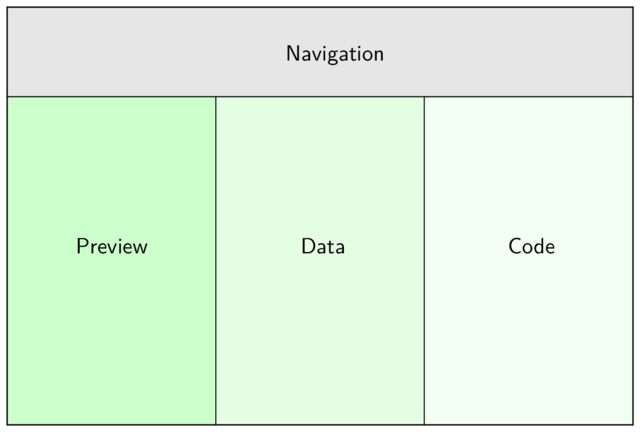
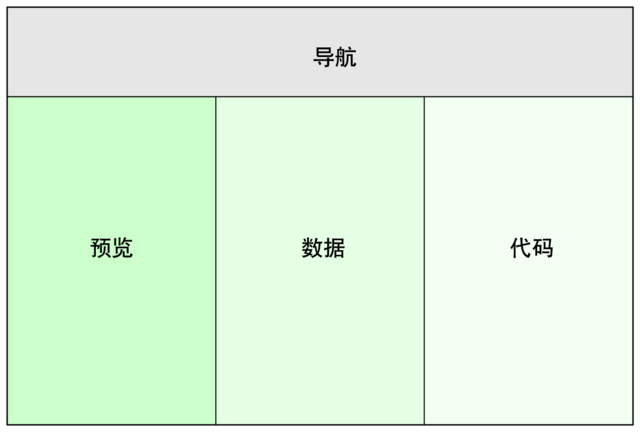
docs: update translation for interface

diff --git a/lang/chs.js b/lang/chs.js
@@ -140,5 +140,9 @@ const chs = {
     "accept": "接受",
     "reject": "拒绝",
     "llama3": "使用 Llama 3 构建"
+  },
+  "doc": {
+    "Navigation": "导航",
+    "Preview": "预览"
   }
 }

diff --git a/lang/en.js b/lang/en.js
@@ -141,5 +141,9 @@ const en = {
     "accept": "Accept",
     "reject": "Reject",
     "llama3": "Built with Llama3"
+  },
+  "doc": {
+    "Navigation": "Navigation",
+    "Preview": "Preview"
   }
 }

diff --git a/docs/figs/interface.tex b/docs/figs/interface.tex
@@ -7,9 +7,9 @@
 \draw [fill=green!20] (-3,1) rectangle (0.5,-4.5) node (v2) {};
 \draw [fill=green!10] (v2) rectangle (4,1) node (v3) {};
 \draw [fill=green!5] (v3) rectangle (v4);
-\node at (2.5,1.7) {Navigation};
-\node at (5.8,-1.5) {Code};
-\node at (2.3,-1.5) {Data};
-\node at (-1.25,-1.5) {Preview};
+\node at (2.5,1.7) {\directlua{tex.write(trans["doc"]["Navigation"])}};
+\node at (5.8,-1.5) {\directlua{tex.write(trans["Code"])}};
+\node at (2.3,-1.5) {\directlua{tex.write(trans["Data"])}};
+\node at (-1.25,-1.5) {\directlua{tex.write(trans["doc"]["Preview"])}};
 \end{tikzpicture}
 \end{document}
